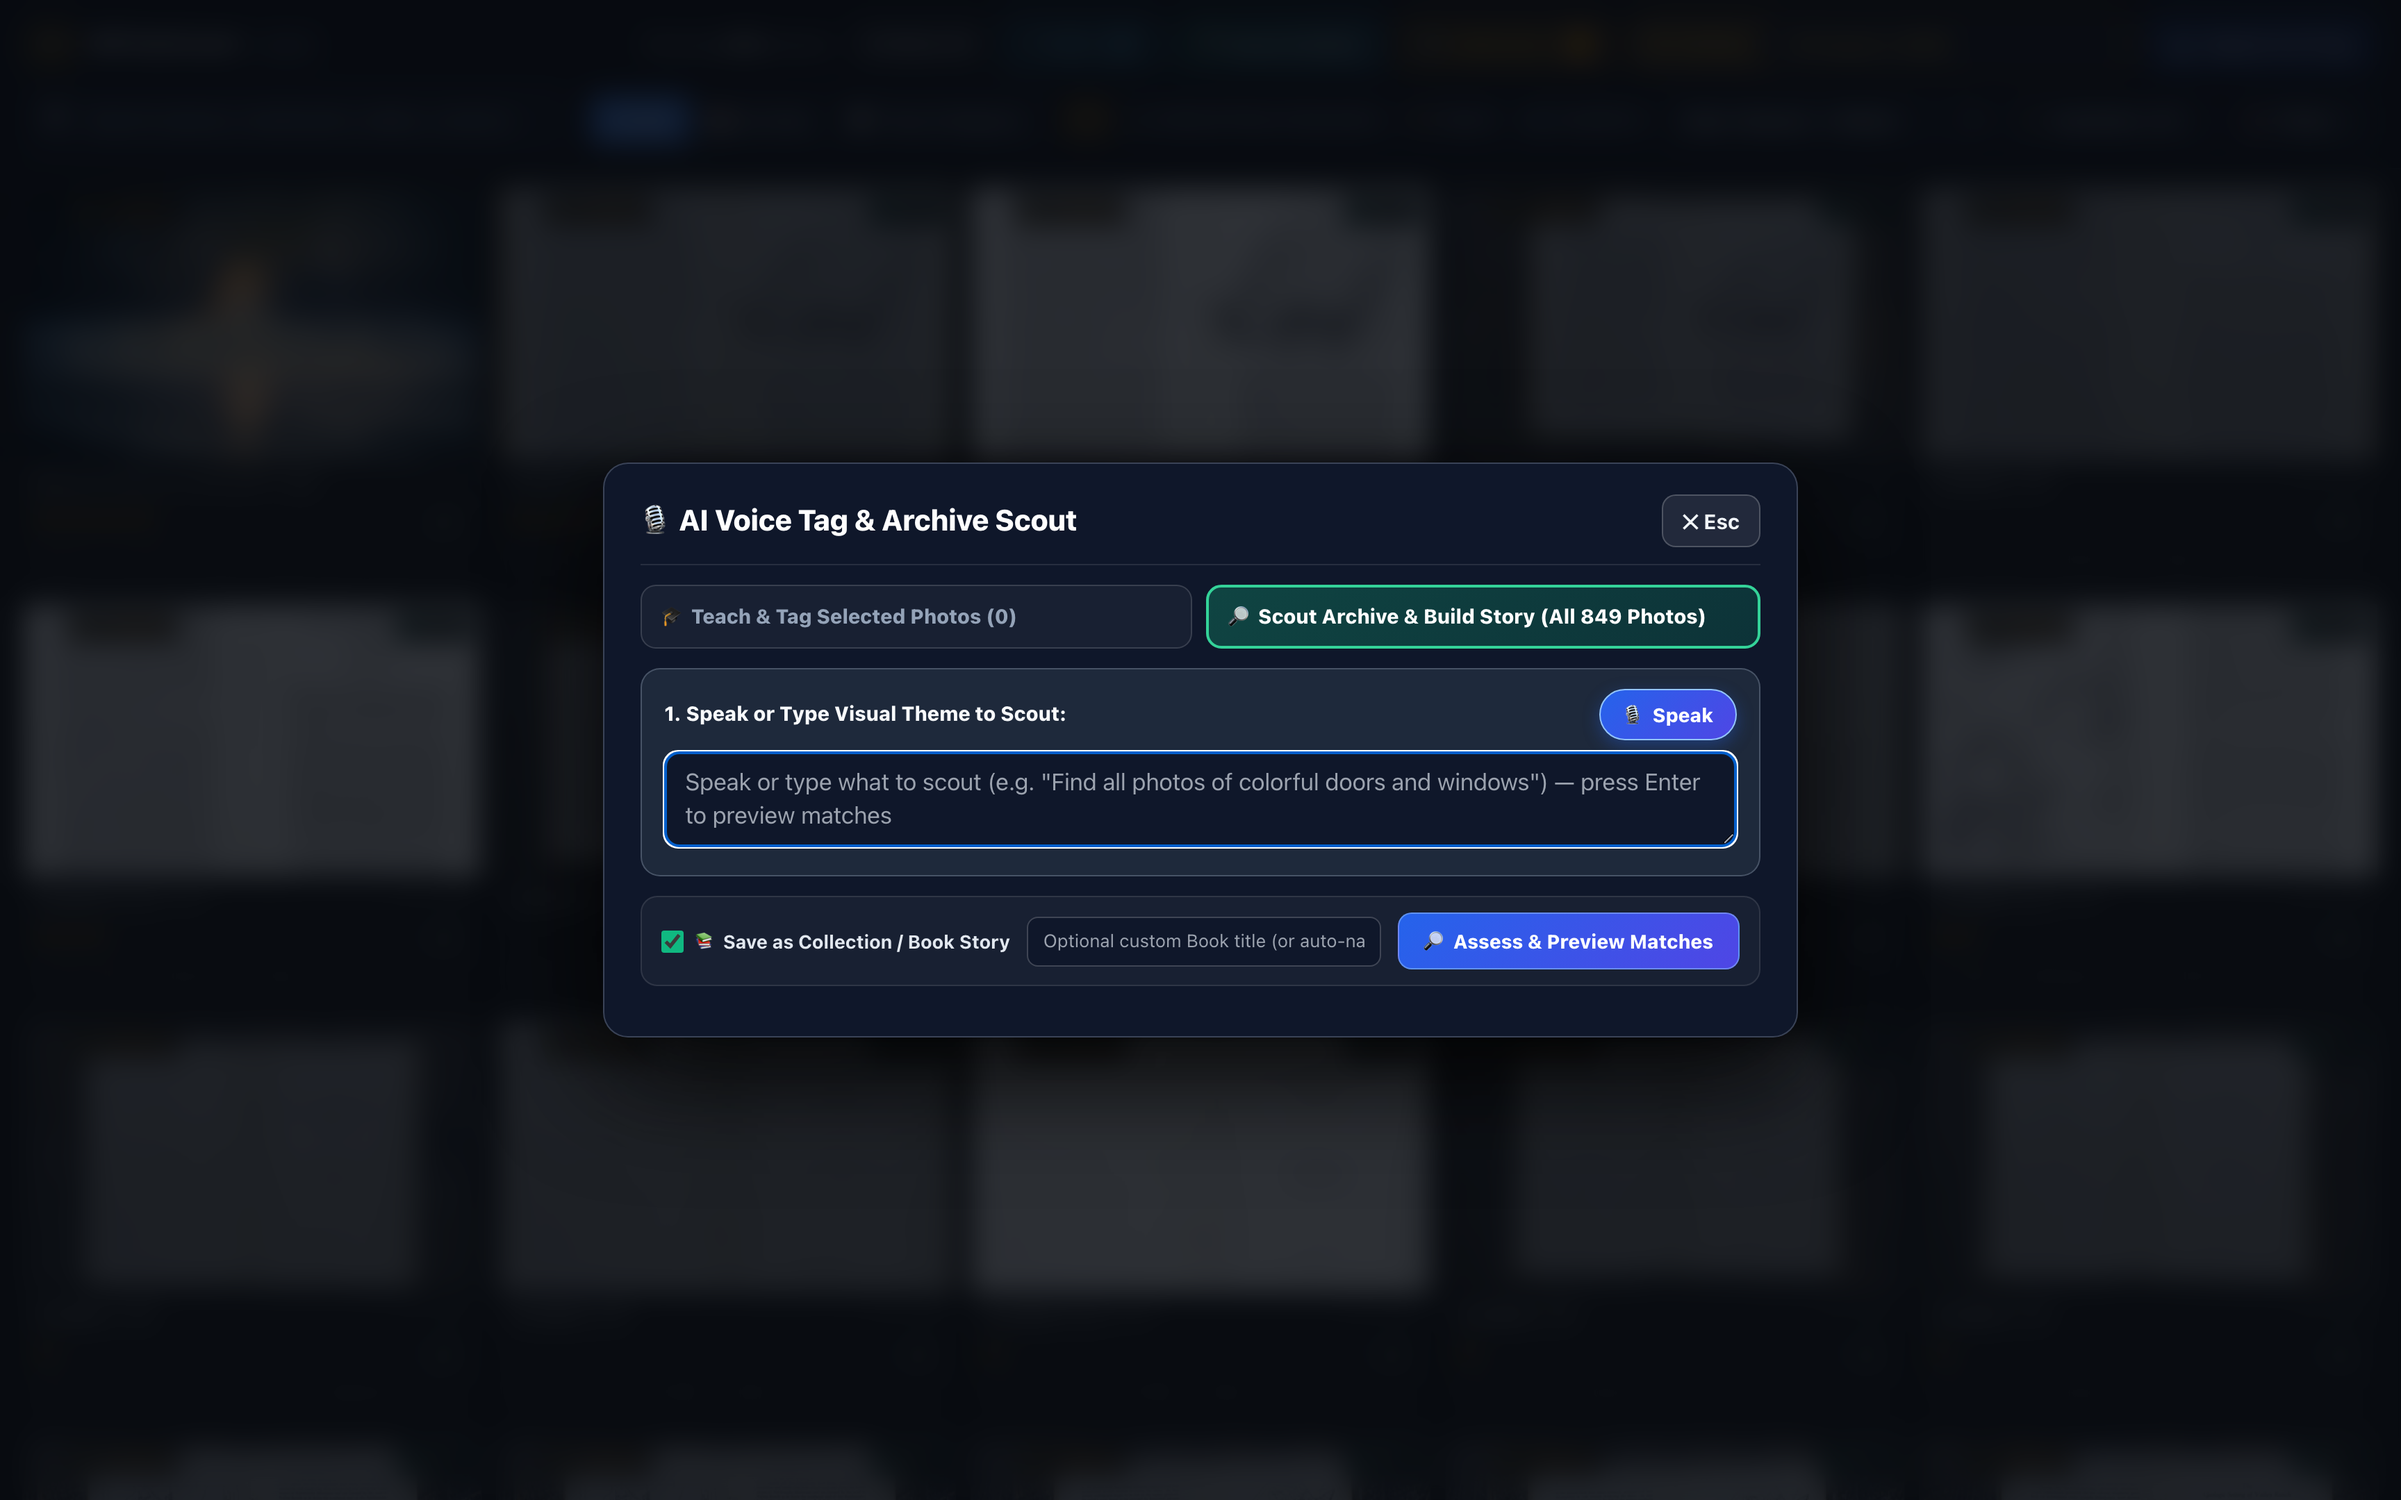
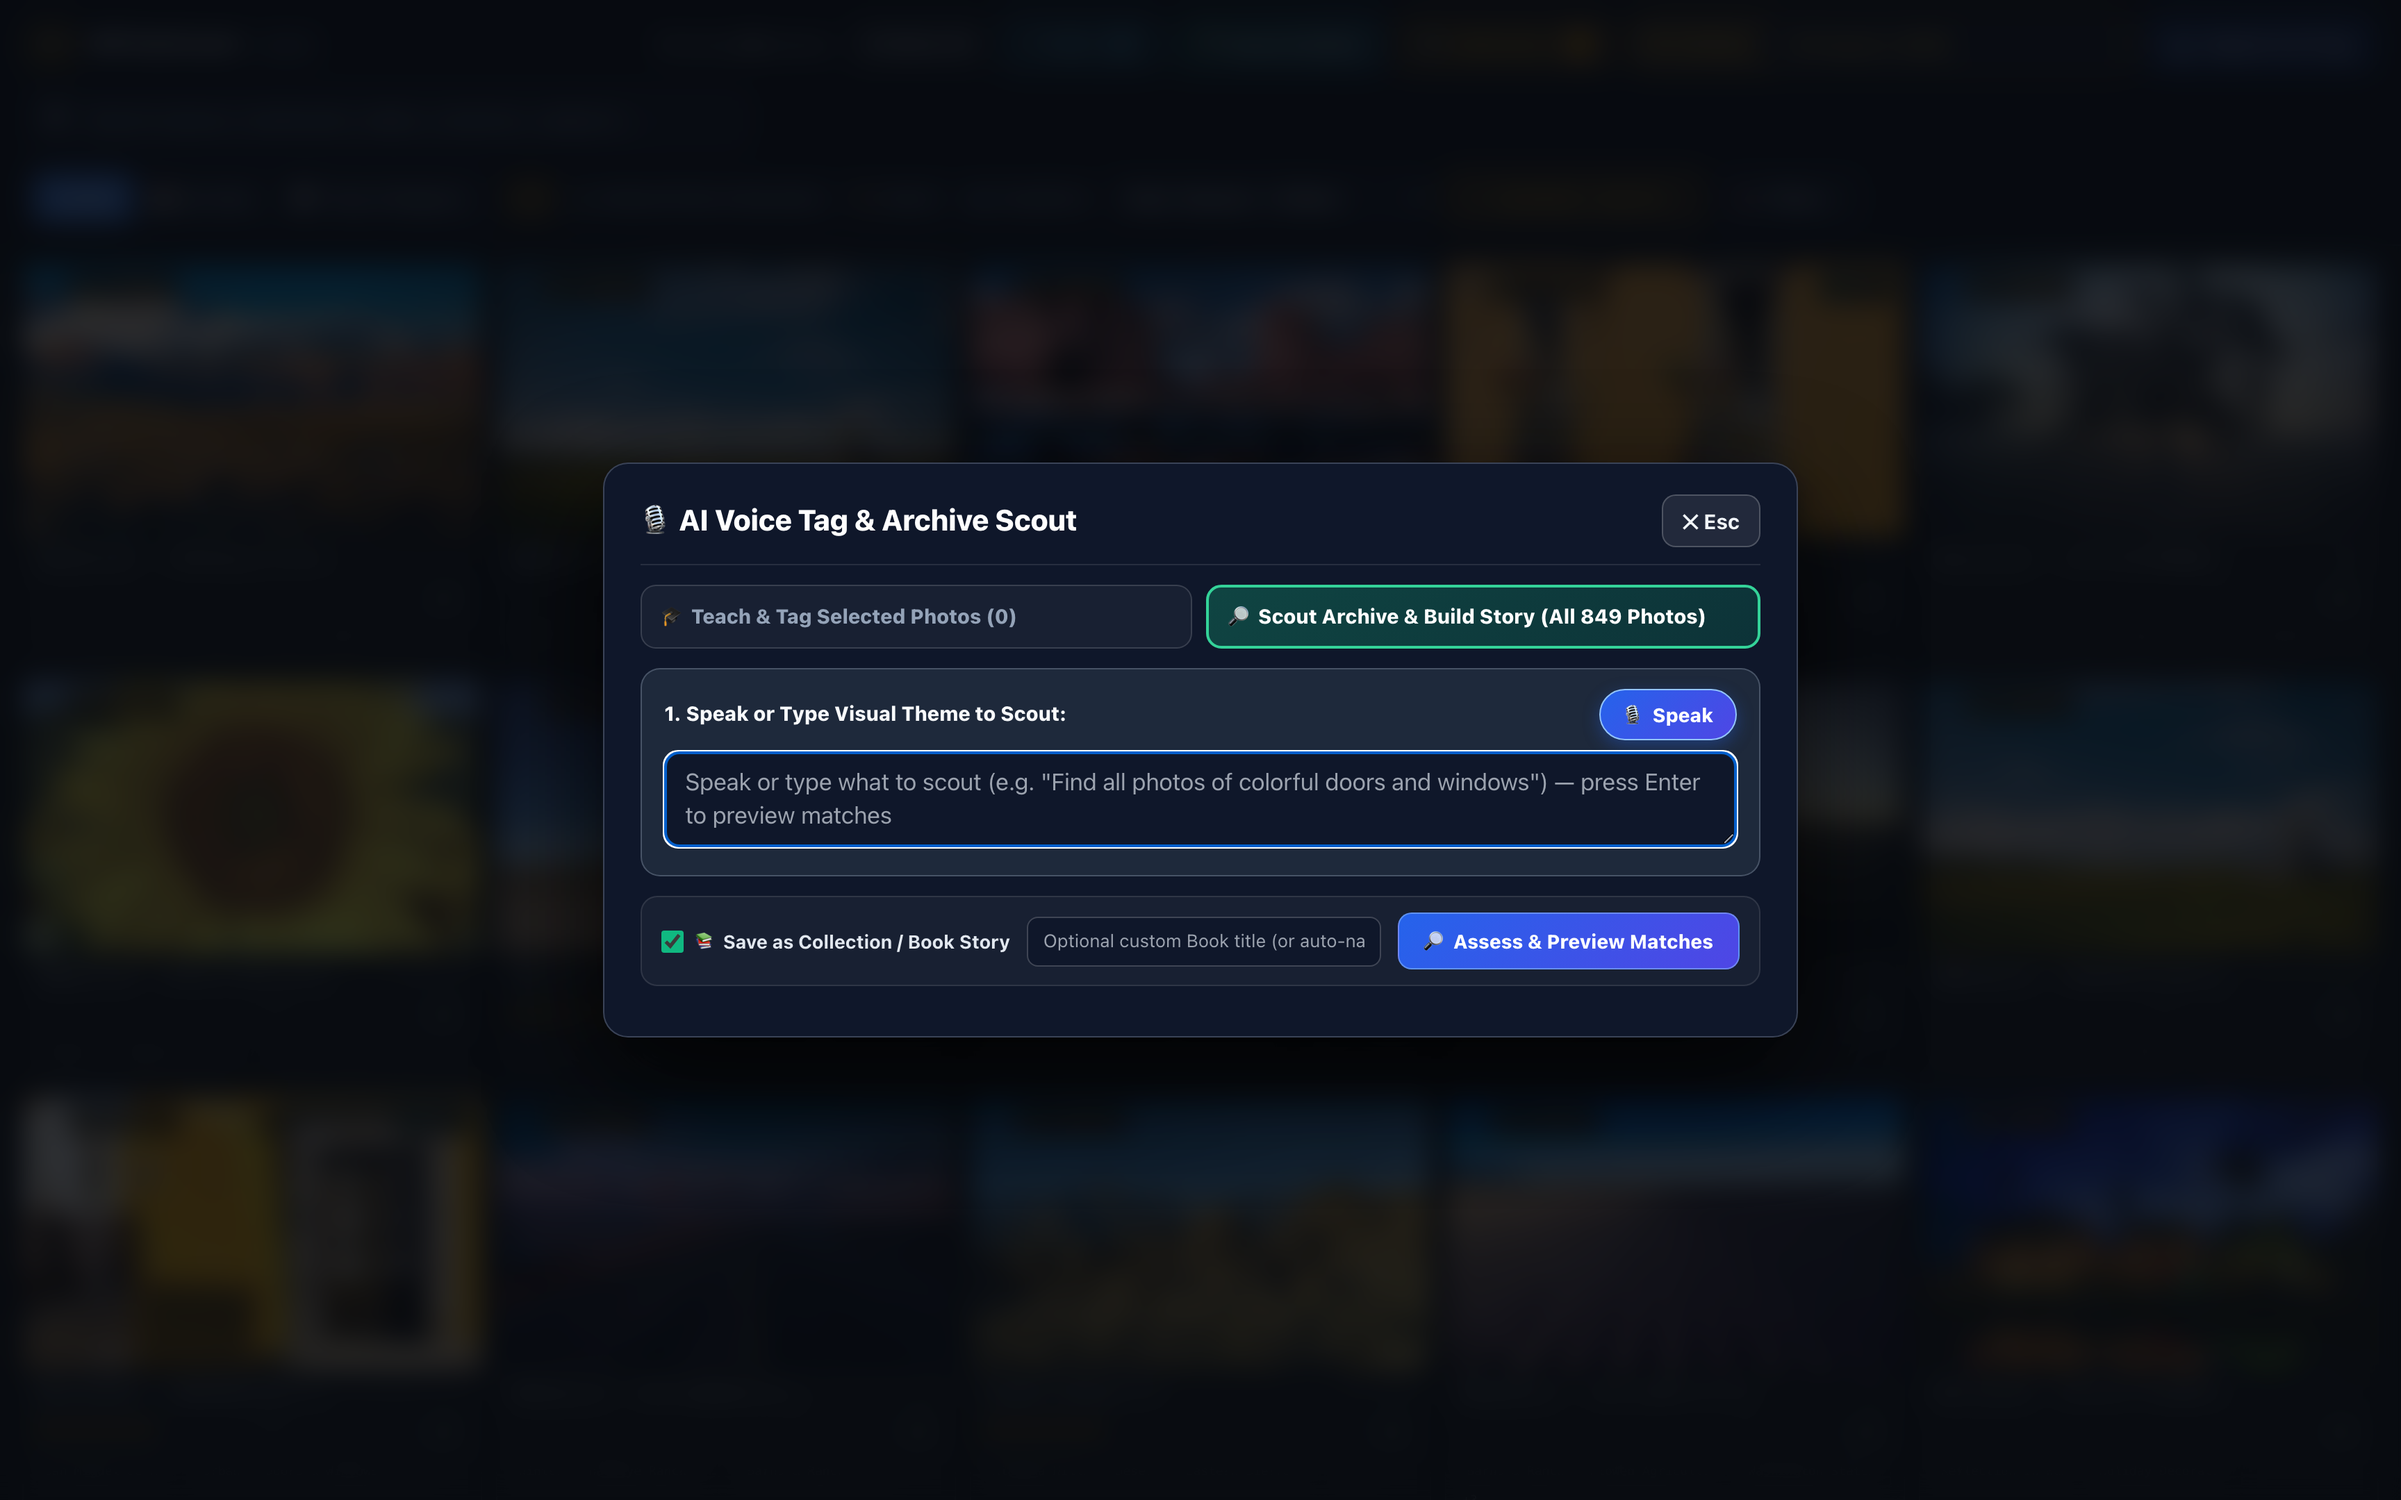
docs(screenshots): update showcase screenshots to feature Top 5% aesthetic portfolio masterpieces

diff --git a/scripts/capture_screenshots.js b/scripts/capture_screenshots.js
@@ -55,8 +55,24 @@ async function main() {
   });
   console.log('Verification data:', verifyData);
 
-  // 1. Studio Grid Workspace Screenshot
-  console.log('Capturing 01-studio-grid-workspace.png ...');
+  // Switch to Top 5% Aesthetic Filter
+  console.log('Selecting Top 5% aesthetic filter...');
+  await page.evaluate(() => {
+    const buttons = Array.from(document.querySelectorAll('button'));
+    const aestheticBtn = buttons.find((b) => b.innerText && b.innerText.includes('Aesthetic'));
+    if (aestheticBtn) aestheticBtn.click();
+  });
+  await sleep(500);
+
+  await page.evaluate(() => {
+    const buttons = Array.from(document.querySelectorAll('button'));
+    const top5Btn = buttons.find((b) => b.innerText && b.innerText.includes('Top 5%'));
+    if (top5Btn) top5Btn.click();
+  });
+  await sleep(3000);
+
+  // 1. Studio Grid Workspace Screenshot (Top 5% Masterpieces)
+  console.log('Capturing 01-studio-grid-workspace.png (Top 5% Showcase) ...');
   await page.screenshot({
     path: path.join(screenshotsDir, '01-studio-grid-workspace.png'),
   });
@@ -125,3 +141,4 @@ main().catch((err) => {
   console.error('Error capturing screenshots:', err);
   process.exit(1);
 });
+
